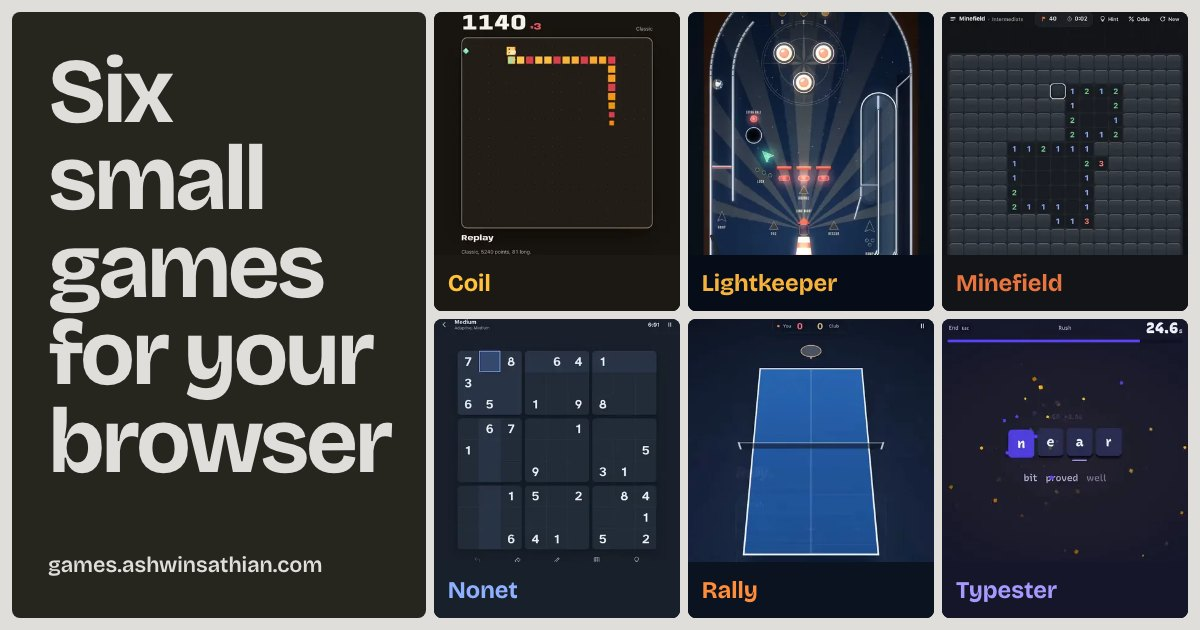
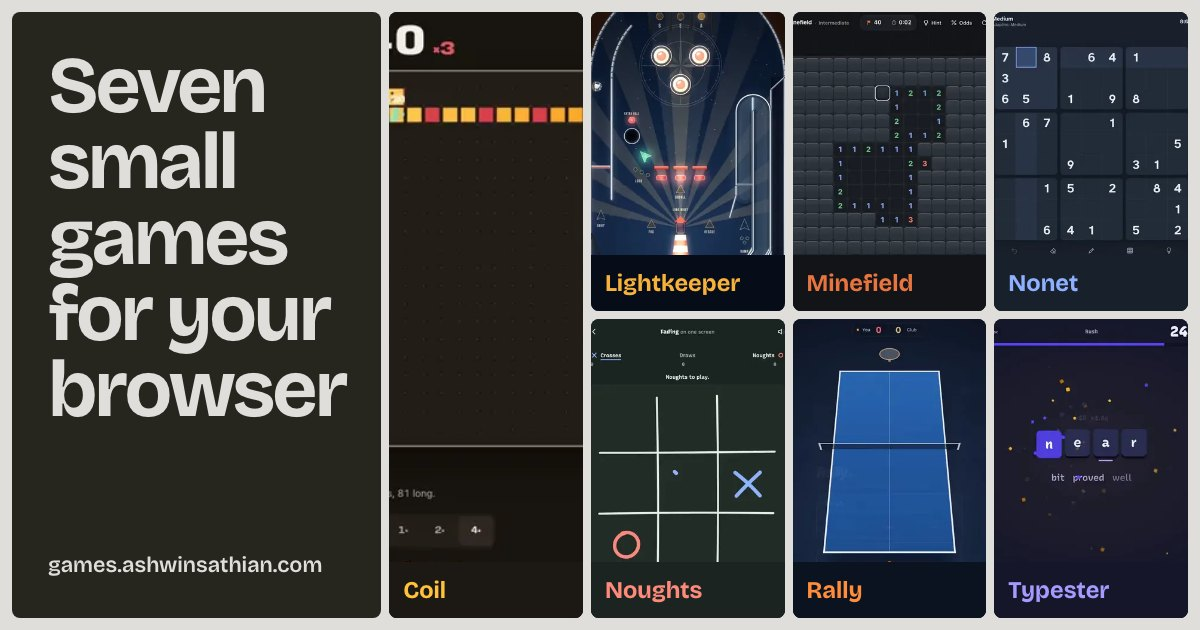
Add Noughts, the seventh game
Clip of a solved Fading game recorded from the live site, stills, a card, and a seventh tile in
each layout. The pick tile's type now scales with its width, since it shares a row.

diff --git a/src/data/games.ts b/src/data/games.ts
@@ -3,6 +3,7 @@ import coilPoster from "../assets/posters/coil.png";
 import lightkeeperPoster from "../assets/posters/lightkeeper.png";
 import minefieldPoster from "../assets/posters/minefield.png";
 import nonetPoster from "../assets/posters/nonet.png";
+import noughtsPoster from "../assets/posters/noughts.png";
 import rallyPoster from "../assets/posters/rally.png";
 import typesterPoster from "../assets/posters/typester.png";
 import coilDesktop from "../assets/shots/coil-desktop.png";
@@ -13,6 +14,8 @@ import minefieldDesktop from "../assets/shots/minefield-desktop.png";
 import minefieldPhone from "../assets/shots/minefield-phone.png";
 import nonetDesktop from "../assets/shots/nonet-desktop.jpg";
 import nonetPhone from "../assets/shots/nonet-phone.jpg";
+import noughtsDesktop from "../assets/shots/noughts-desktop.jpg";
+import noughtsPhone from "../assets/shots/noughts-phone.jpg";
 import rallyDesktop from "../assets/shots/rally-desktop.png";
 import rallyPhone from "../assets/shots/rally-phone.png";
 import typesterDesktop from "../assets/shots/typester-desktop.png";
@@ -180,6 +183,37 @@ export const games: Game[] = [
     clipAlt: "Nonet in its dark theme: digits are filled in across a Medium puzzle, box by box.",
     desktop: { src: nonetDesktop, alt: "Nonet on a desktop: a Hard puzzle with pencil notes beside a 3 by 3 keypad." },
     phone: { src: nonetPhone, alt: "Nonet on a phone, a puzzle finished." },
+  },
+  {
+    slug: "noughts",
+    name: "Noughts",
+    kind: "Noughts and crosses",
+    noun: "noughts and crosses game",
+    genre: ["Board game", "Tic-tac-toe", "Strategy"],
+    line: "Noughts and crosses in three versions, against a bot that has every position worked out or a friend over a link.",
+    about: [
+      "Noughts is noughts and crosses for phone, tablet and desktop. Classic is the 3×3 game. In Fading each side keeps three marks and placing a fourth wipes out your oldest, so the grid never fills. Ultimate is nine grids in one, where the square you take decides which grid your opponent plays in next. Play the bot at three strengths, someone on the same screen, or anyone you send a link to.",
+      "Classic and Fading are solved when you open them: 5,478 positions in one and 128,170 in the other. That is how the bot plays them perfectly, how “Show odds” labels each empty square with what it leads to, and how the review grades every move after a game. Solving Fading also shows that X wins it by force, but only by opening on an edge square.",
+    ],
+    modes: ["Classic", "Fading", "Ultimate", "Online"],
+    controls: "Tap, click or the keyboard",
+    kb: 22,
+    sizeNote: "One HTML file of about 22 KB compressed, plus a 38 KB font",
+    stack: "TypeScript, SVG, Web Workers, Web Audio, Cloudflare Workers and Durable Objects",
+    highlights: [
+      { title: "Solved when it opens", detail: "Classic by negamax over 5,478 positions in about 1.5 ms. Fading has positions that repeat, so it is solved backwards from every finished position." },
+      { title: "Every move graded", detail: "After a Classic or Fading game the review marks each mistake, names the one that decided the game and shows the better squares." },
+      { title: "Ultimate by tree search", detail: "Monte Carlo tree search on bitboards in a Web Worker, up to 40,000 playouts a move." },
+      { title: "Online rooms", detail: "Each room is a Durable Object that checks every move with the same rules file the browser plays by. Reload or lose signal and your seat waits for you." },
+    ],
+    url: "https://noughts.ashwinsathian.com",
+    repo: "https://github.com/AshwinSathian/noughts",
+    ground: "#1b2420",
+    bright: "#ff8a7b",
+    poster: noughtsPoster,
+    clipAlt: "Noughts playing Fading on its blackboard theme: crosses and noughts are drawn in, the oldest cross turns pale and is wiped, and three crosses along the bottom are struck through.",
+    desktop: { src: noughtsDesktop, alt: "Noughts on a desktop reviewing a Classic game against the bot: move 5 is marked as the mistake that decided it, with the better square dashed." },
+    phone: { src: noughtsPhone, alt: "Noughts on a phone, an Ultimate game with the grid you must play in outlined." },
   },
   {
     slug: "rally",

diff --git a/scripts/capture.ts b/scripts/capture.ts
@@ -71,6 +71,22 @@ const games: Record<string, Shot> = {
       await wait(p, 1500);
     },
   },
+  noughts: {
+    // Fading on one screen, both sides playing the solver's moves: X's forced win from an edge,
+    // marks wiped as each side places a fourth, and the strike at the end.
+    url: 'https://noughts.ashwinsathian.com/', start: 3.3, dur: 9,
+    init: (p) => p.addInitScript(() => localStorage.setItem('noughts:v1', JSON.stringify({ v: 1, settings: { mode: 'fading', opp: 'local', sound: false, theme: 'auto', level: 'best' } }))),
+    async play(p) {
+      await wait(p, 700);
+      await p.click('#play');
+      await wait(p, 900);
+      for (const i of [5, 6, 4, 3, 0, 8, 2, 1, 6, 4, 7, 5, 8]) {
+        await p.click(`#board .cell[data-i="${i}"]`);
+        await wait(p, 560);
+      }
+      await wait(p, 3200);
+    },
+  },
   rally: {
     // ?autoplay hands the near paddle to the game's own bot.
     url: 'https://rally.ashwinsathian.com/?autoplay=2', start: 1.5, dur: 9,

diff --git a/src/pages/llms.txt.ts b/src/pages/llms.txt.ts
@@ -6,7 +6,7 @@ export const GET: APIRoute = () => {
   const body = [
     `# ${site.name}`,
     "",
-    `> Six free games that run in a web browser on phone, tablet and desktop, made by ${site.author} (${site.authorUrl}). No install, no sign-up, no ads and no analytics. All six are open source under the MIT licence.`,
+    `> Seven free games that run in a web browser on phone, tablet and desktop, made by ${site.author} (${site.authorUrl}). No install, no sign-up, no ads and no analytics. All seven are open source under the MIT licence.`,
     "",
     ...games.flatMap((g) => [
       `## ${g.name} (${g.kind})`,

diff --git a/scripts/shoot.ts b/scripts/shoot.ts
@@ -4,7 +4,7 @@ import { chromium } from 'playwright';
 const base = process.argv[2] ?? 'http://localhost:4332';
 const out = process.argv[3] ?? '.shots';
 const browser = await chromium.launch();
-const pages = ['/', '/minefield'];
+const pages = (process.env.PAGES ?? '/,/minefield').split(',');
 for (const [w, h] of [[1440, 900], [820, 1180], [390, 844]] as const) {
   for (const scheme of ['light', 'dark'] as const) {
     const ctx = await browser.newContext({ viewport: { width: w, height: h }, deviceScaleFactor: 1, colorScheme: scheme });

diff --git a/README.md b/README.md
@@ -1,6 +1,6 @@
 # games.ashwinsathian.com
 
-The front door to six browser games: [Coil](https://coil.ashwinsathian.com) (snake), [Lightkeeper](https://lightkeeper.ashwinsathian.com) (pinball), [Minefield](https://minefield.ashwinsathian.com) (Minesweeper), [Nonet](https://nonet.ashwinsathian.com) (sudoku), [Rally](https://rally.ashwinsathian.com) (table tennis) and [Typester](https://typester.ashwinsathian.com) (typing). Each game lives in its own repository and on its own subdomain; this site links to them.
+The front door to seven browser games: [Coil](https://coil.ashwinsathian.com) (snake), [Lightkeeper](https://lightkeeper.ashwinsathian.com) (pinball), [Minefield](https://minefield.ashwinsathian.com) (Minesweeper), [Nonet](https://nonet.ashwinsathian.com) (sudoku), [Noughts](https://noughts.ashwinsathian.com) (noughts and crosses), [Rally](https://rally.ashwinsathian.com) (table tennis) and [Typester](https://typester.ashwinsathian.com) (typing). Each game lives in its own repository and on its own subdomain; this site links to them.
 
 ![The home page](public/og/index.jpg)
 
@@ -8,7 +8,7 @@ The front door to six browser games: [Coil](https://coil.ashwinsathian.com) (sna
 
 Astro builds a fully static site into `dist`, and Cloudflare Workers serves it as static assets. The only code on the server is `worker/index.js`, which answers byte-range requests for the clips, because Safari will not play an MP4 without them. The home page is about 9 KB of gzipped HTML with its CSS inlined, one 24 KB font and one script of about 2 KB.
 
-- **Clips are real play.** `scripts/capture.ts` drives each live game with its own hooks (Coil's replay links, Lightkeeper's attract loop, Minefield's hints, Rally's `?autoplay` bot) and records nine seconds with Playwright, encoded by ffmpeg as muted H.264 of 30 to 280 KB. A clip loads only when its tile is on screen, pauses when it leaves, and never loads under Save-Data. With reduced motion it plays only on hover or focus.
+- **Clips are real play.** `scripts/capture.ts` drives each live game with its own hooks (Coil's replay links, Lightkeeper's attract loop, Minefield's hints, Noughts' solved Fading line, Rally's `?autoplay` bot) and records nine seconds with Playwright, encoded by ffmpeg as muted H.264 of 30 to 280 KB. A clip loads only when its tile is on screen, pauses when it leaves, and never loads under Save-Data. With reduced motion it plays only on hover or focus.
 - **Skeletons.** Every picture shimmers until it arrives. A slow navigation shows a progress bar and the shape of the next page after 120 ms; prerendered pages land before that and never show it.
 - **Speed.** `public/speculation.json` prerenders site pages on hover and prefetches a game's page when its Play link is hovered. Other browsers get a prefetch from `src/scripts/site.ts`. Cross-document view transitions carry a game's clip from its tile to the top of its page.
 - **Search and answer engines.** Every page has a canonical URL, Open Graph and Twitter cards, and JSON-LD (`WebSite` and `ItemList` on the home page; `VideoGame` with a `VideoObject` trailer and a `BreadcrumbList` on each game page). There is a sitemap, a robots file that admits AI crawlers, and `/llms.txt` built from the same data as the pages.
